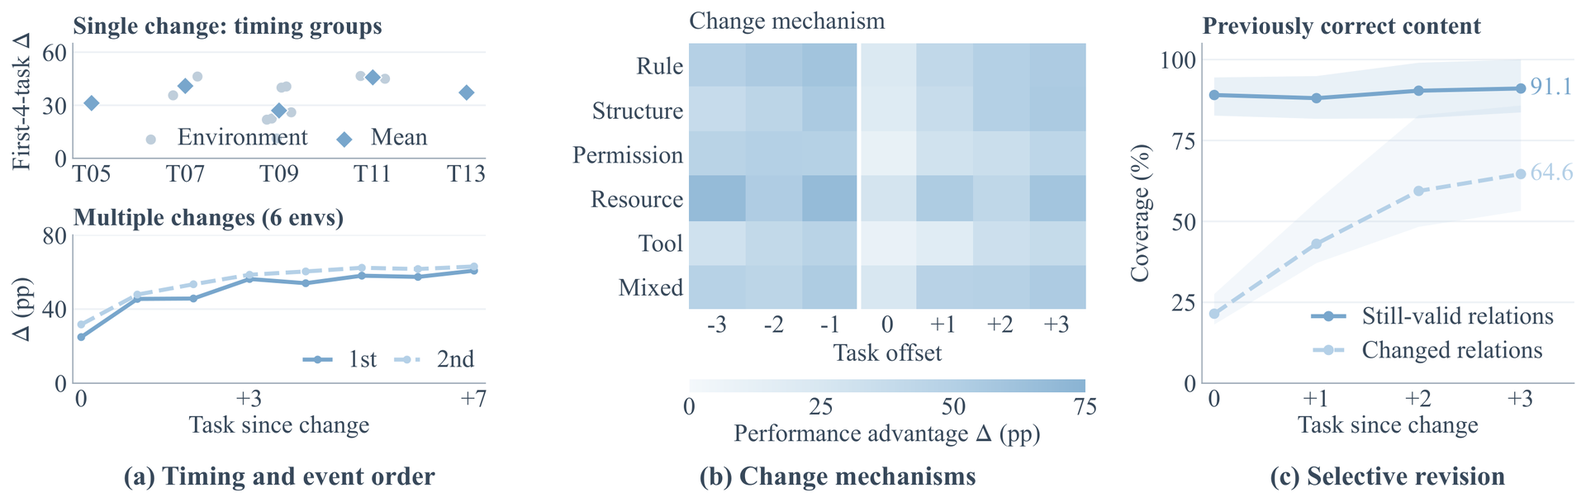
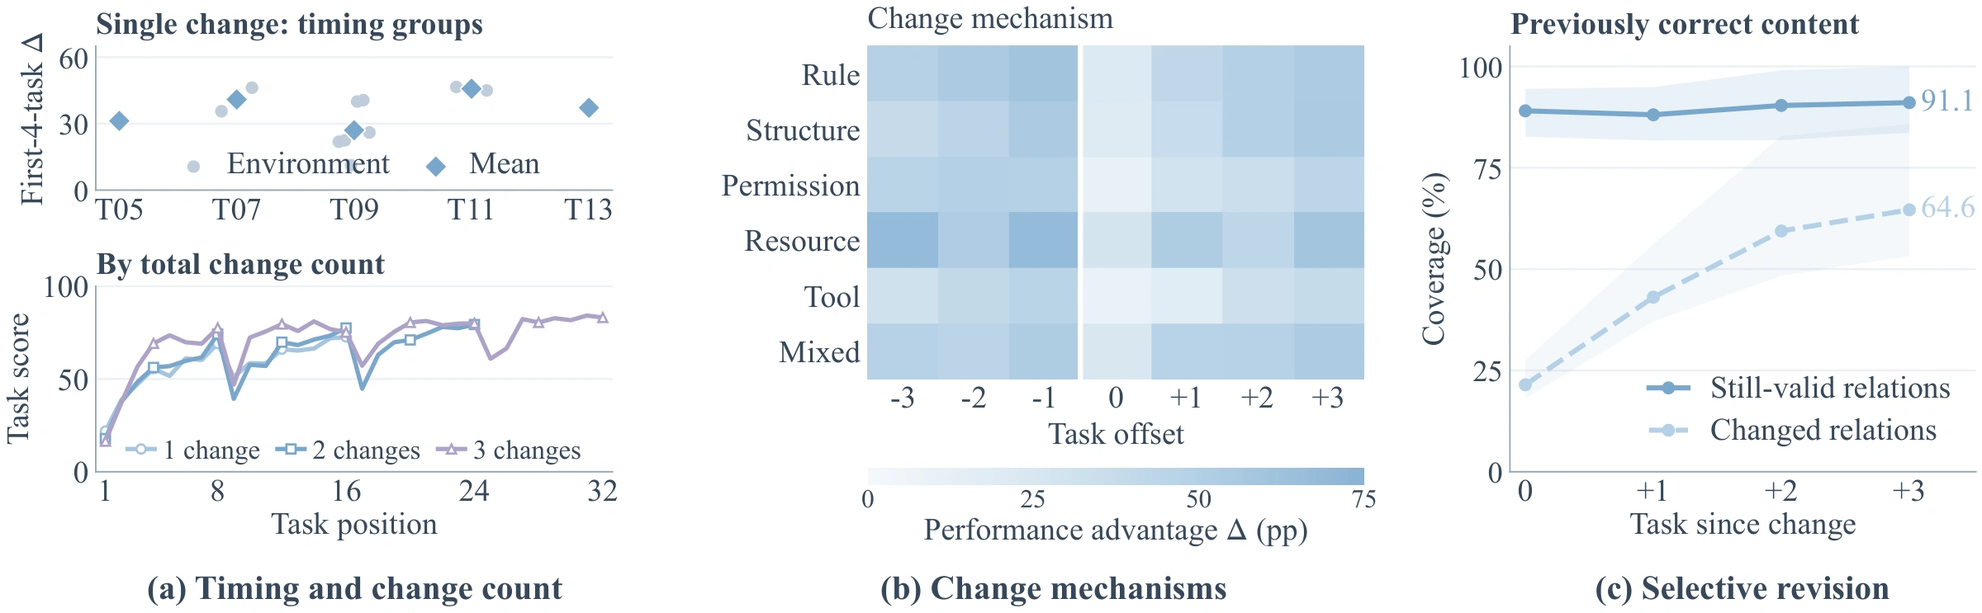
Refresh experiment analyses and display findings sequentially

diff --git a/index.html b/index.html
@@ -16,7 +16,7 @@
 <h1 id="project-name">ReScope<span>Bench</span></h1>
 <p class="paper-title">Towards Robust Long-Lived Agents: Benchmarking Experience Lifecycles in Evolving Environments</p>
 <p class="standfirst">When an environment changes without warning, which parts of their experience do agents keep, and which do they revise?</p>
-<div class="buttons"><span class="release"><svg viewBox="0 0 24 24" aria-hidden="true"><path d="M6 3h8l4 4v14H6zM14 3v5h4M9 12h6M9 15h6"/></svg>Paper · Coming soon</span><a class="btn" href="#citation"><span aria-hidden="true">❝</span> BibTeX</a><a class="btn primary" href="https://github.com/JoeYing1019/ReScopeBench"><svg viewBox="0 0 24 24" aria-hidden="true"><path d="m8 7-5 5 5 5m8-10 5 5-5 5m-3-14-3 18"/></svg>GitHub</a></div></div>
+<div class="buttons"><span class="release"><svg viewBox="0 0 24 24" aria-hidden="true"><path d="M6 3h8l4 4v14H6zM14 3v5h4M9 12h6M9 15h6"/></svg>Paper · Coming soon</span><a class="btn" href="#citation"><span aria-hidden="true">❝</span> BibTeX</a><a class="btn primary" href="https://github.com/JoeYing1019/ReScopeBench"><svg viewBox="0 0 24 24" aria-hidden="true"><path d="m8 7-5 5 5 5m8-10 5 5-5 5m-3-14-3 18"/></svg>GitHub</a><a class="btn" href="https://huggingface.co/datasets/JoeYing/ReScopeBench"><svg viewBox="0 0 24 24" aria-hidden="true"><ellipse cx="12" cy="5" rx="8" ry="3"/><path d="M4 5v14c0 4 16 4 16 0V5M4 12c0 4 16 4 16 0"/></svg>Dataset</a></div></div>
 <figure class="hero-art"><img src="assets/lifecycle.svg" alt="Three layered maps show an agent acquiring resource connections, reusing them and revising a local path after a change." fetchpriority="high"><figcaption><span>Fig. 00</span> The experience lifecycle <span class="art-rule"></span> Schematic</figcaption></figure></div>
 <div class="credits"><p class="authors">Shijue Huang<sup>1*</sup><wbr> Hangyu Guo<sup>1*</sup><wbr> Hengheng Zhang<sup>3</sup><wbr> Guo An<sup>3</sup><wbr> Zhitao He<sup>1</sup><wbr> Qi Tian<sup>2,3†</sup><wbr> Yiren Feng<sup>1†</sup></p>
 <p class="affiliations"><span><sup>1</sup>The Hong Kong University of Science and Technology</span><span><sup>2</sup>Guangdong Laboratory of Artificial Intelligence and Digital Economy (SZ)</span><span><sup>3</sup>Huawei Inc.</span></p>
@@ -27,7 +27,7 @@
 <p class="lead">An agent can find a file after it moves and finish the task while its notes still point to the old location. ReScopeBench tracks both what agents deliver and what they save for the next task.</p>
 <div class="overview-body"><a class="paper-figure zoom" href="assets/overview.webp" data-zoom><img src="assets/overview.webp" width="2160" height="1341" loading="lazy" alt="Benchmark overview. Interactive environments are built around discoverable experience. Tasks share dependencies, and local changes invalidate selected parts of that experience."><span class="enlarge">↗ Enlarge</span></a>
 <div class="overview-steps"><article><span>01.1</span><h3>Discover</h3><p>Agents explore an unfamiliar environment. Structural experience records how resources connect. Rule experience captures principles and constraints that guide actions.</p></article><article><span>01.2</span><h3>Reuse</h3><p>Later tasks draw on the same knowledge. Paired runs begin from the same state. One retains memory, skills, and retrievable history between tasks. The other clears them.</p></article><article><span>01.3</span><h3>Revise</h3><p>Local changes invalidate selected facts while others remain true. With a limited exploration budget, the agent must decide what to recheck.</p></article></div></div>
-<details class="disclosure"><summary>Read the paper abstract</summary><p>As agents become more capable, they are moving beyond one-off tasks toward sustained assistance across successive user goals. Such assistance requires agents to discover how unfamiliar environments work, reuse what they learn across tasks, and keep that experience current as environments evolve. Existing benchmarks increasingly study experience reuse and adaptation, but provide limited insight into which parts of accumulated experience agents revise, retain, or lose. To address this gap, we introduce ReScopeBench, a benchmark for the experience lifecycle across 18 interactive environments. It distinguishes structural experience about how an environment is organized and accessed from rule experience about reusable principles and constraints that guide decisions across tasks. To study how experience is acquired, reused, and revised, we propose an experience-first construction approach. It builds task streams around shared experience and introduces silent environmental changes. We evaluate task performance and track changes in saved experience throughout each stream. Across 20 models, we find that retained experience improves task performance, but agents struggle to keep it current as environments change. Even when the required experience is correctly recorded, agents do not always complete tasks successfully. These findings identify selective maintenance and effective use as complementary challenges for long-lived agents.</p></details>
+<details class="disclosure"><summary>Read the paper abstract</summary><p>As agents become more capable, they are moving beyond one-off tasks toward sustained assistance across successive user goals. Such assistance requires agents to discover how unfamiliar environments work, reuse what they learn across tasks, and keep that experience current as environments evolve. Existing benchmarks increasingly study experience reuse and adaptation, but provide limited insight into which parts of accumulated experience agents revise, retain, or lose. To address this gap, we introduce ReScopeBench, a benchmark for the experience lifecycle across 18 interactive environments. It distinguishes structural experience about how an environment is organized and accessed from rule experience about reusable principles and constraints that guide decisions across tasks. To study how experience is acquired, reused, and revised, we propose an experience-first construction approach. It builds task streams around shared experience and introduces silent environmental changes. We evaluate task performance and track changes in saved experience throughout each stream. Across 20 models, we find that retained experience improves task performance, but agents struggle to keep it current as environments change. Even when the required experience is correctly recorded, agents do not always fulfill requests successfully. These findings identify selective maintenance and effective use as complementary challenges for long-lived agents.</p></details>
 </section>
 <section class="tinted" id="results"><div class="chapter wrap"><div class="section-title"><span class="index">02 / Evaluation</span><h2>Main results</h2></div><p class="lead">All 20 models score higher on average when they retain experience. Yet even the best model records only 37.63% of update targets after the first task affected by a change.</p>
 <div class="table-head"><span class="overline">Table 2 <b>/</b> Model comparison</span><div class="segments" role="group" aria-label="Filter result rows"><button type="button" aria-pressed="true" data-filter="all">All models</button><button type="button" aria-pressed="false" data-filter="compact">Compact open-weight</button><button type="button" aria-pressed="false" data-filter="commercial">Commercial</button></div></div>
@@ -69,17 +69,44 @@
   </tbody>
 </table></div>
 <p class="footnote">Scores range from 0 to 100. Each environment has equal weight. Bold marks the best score in each column across all 20 models.</p>
-<details class="disclosure metrics"><summary>How to read the seven metrics</summary><div><section><h3>Task performance</h3><p><b>BP</b> and <b>EP</b> measure mean task scores without and with retained experience. <b>DP</b> measures the score with experience on the first task affected by each change.</p></section><section><h3>Saved experience</h3><p><b>SC</b> and <b>RC</b> measure coverage of current structural and rule knowledge. <b>UC</b> measures how much changed or new information is recorded after the first affected task. <b>RT</b> rewards earlier recovery of all update targets together with previously correct information that still applies.</p></section></div></details></div></section>
+<details class="disclosure metrics"><summary>How to read the seven metrics</summary><div><section><h3>Task performance</h3><p><b>BP</b> and <b>EP</b> measure mean task scores without and with retained experience. <b>DP</b> measures the score with experience on the first task affected by each change.</p></section><section><h3>Saved experience</h3><p><b>SC</b> and <b>RC</b> measure correct coverage of the current structural and rule reference inventories. <b>UC</b> measures how much changed or new information is recorded after the first affected task. <b>RT</b> rewards earlier joint completion of all update targets and previously correct, still-valid information within each affected experience unit.</p></section></div></details></div></section>
 <section class="chapter wrap" id="analysis"><div class="section-title"><span class="index">03 / Findings</span><h2>Inside the task streams</h2></div>
-<div class="analysis-tabs" role="group" aria-label="Choose an analysis"><button type="button" data-panel="formation" aria-pressed="true"><span>A</span> Experience growth</button><button type="button" data-panel="adaptation" aria-pressed="false"><span>B</span> Adaptation to change</button><button type="button" data-panel="behavior" aria-pressed="false"><span>C</span> Experience in action</button></div>
-<article class="analysis-panel" id="formation"><div class="finding-heading"><span class="overline">Figure 3</span><h3>Similar drops in performance can hide different gaps in experience.</h3></div><p>In the 24-task streams, performance drops at both changes. At task 9, structural coverage falls while rule coverage stays comparatively stable. At task 17, the pattern reverses. The dark curves average all 20 models.</p><a class="paper-figure zoom" href="assets/formation.webp" data-zoom><img loading="lazy" src="assets/formation.webp" width="1920" height="1137" alt="Task scores and coverage of structural and rule experience by position in 16-, 24-, and 32-task streams."><span class="enlarge">↗ Enlarge</span></a></article>
-<article class="analysis-panel" id="adaptation"><div class="finding-heading"><span class="overline">Figure 4</span><h3>Agents retain valid relations more readily than they revise outdated ones.</h3></div><p>We follow 487 cases in eight environments where agents had recorded the relations that later changed. Across the first four affected tasks, coverage of the replacements rose from 21.47% to 64.63%. Coverage of previously correct relations that remained valid stayed between 88.07% and 91.07%.</p><a class="paper-figure zoom" href="assets/adaptation.webp" data-zoom><img loading="lazy" src="assets/adaptation.webp" width="1920" height="608" alt="Performance advantage by change timing and mechanism, followed by separate coverage curves for still-valid and changed relations."><span class="enlarge">↗ Enlarge</span></a></article>
-<article class="analysis-panel" id="behavior"><div class="finding-heading"><span class="overline">Figure 5</span><h3>Much of the delivery gap appears before a request is submitted.</h3></div><p>Among 1,304 matched requests in Filesystem and Oracle, delivery was 95.31% with complete prior experience and 71.28% with incomplete prior experience. Missing submissions accounted for 19.42 points of that 24.03-point gap.</p><a class="paper-figure zoom" href="assets/behavior.webp" data-zoom><img loading="lazy" src="assets/behavior.webp" width="1920" height="734" alt="First-submission outcomes and public information reads as experience is formed and revised in two environments."><span class="enlarge">↗ Enlarge</span></a></article>
+<p class="lead">We examine how experience relates to task performance, how agents adapt to environmental change, and how they allocate tool use.</p>
+<article class="analysis-panel" id="formation" aria-labelledby="formation-title">
+<div class="finding-heading"><span class="overline">Analysis 01 · Figure 3</span><h3 id="formation-title">How do experience and task performance evolve?</h3></div>
+<p>We track task scores and saved structural and rule experience across all 20 models and 18 environments. Streams are grouped by length, with the same environments equally weighted at every position.</p>
+<a class="paper-figure zoom" href="assets/formation.webp" data-zoom><img loading="lazy" src="assets/formation.webp" width="2400" height="1397" alt="Task performance above and structural and rule experience coverage below, for 16-, 24-, and 32-task streams. Dark-gray curves show the mean of all 20 models, alongside four representative models."><span class="enlarge">↗ Enlarge</span></a>
+<p class="figure-note">Dark-gray curves average all 20 models. Markers distinguish GPT-5.4, GPT-5.5, GPT-6.1 Sol, and GPT-6 Astra. Bottom ticks show change positions; vertical lines mark changes shared by every environment in a group.</p>
+<div class="finding-grid">
+<div><h4>Gains accumulate across tasks</h4><p>Performance with experience rises across all three groups, while performance without experience remains low. Shared change onsets interrupt these gains before recovery.</p></div>
+<div><h4>Different experience becomes outdated</h4><p>In 24-task streams, structural coverage falls by 18.92 points at T09, while rule coverage stays comparatively stable. At T17, rule coverage falls by 15.97 points while structural coverage changes little.</p></div>
+<div><h4>Coverage is not task success</h4><p>GPT-5.4 gains structural coverage across all groups but remains far below the other displayed models in task performance. Recording reference knowledge does not ensure its effective use for a specific request.</p></div>
+</div></article>
+<article class="analysis-panel" id="adaptation" aria-labelledby="adaptation-title">
+<div class="finding-heading"><span class="overline">Analysis 02 · Figure 4</span><h3 id="adaptation-title">How do agents adapt to different changes?</h3></div>
+<p>We compare change timing, count, and mechanism across 26 events, 18 environments, and all 20 models. A separate content analysis follows previously learned relations to distinguish revision from first acquisition.</p>
+<a class="paper-figure zoom" href="assets/adaptation.webp" data-zoom><img loading="lazy" src="assets/adaptation.webp" width="2400" height="743" alt="Adaptation by change timing and total change count, performance advantage by six change mechanisms, and separate revision and retention curves for previously correct experience."><span class="enlarge">↗ Enlarge</span></a>
+<p class="figure-note">Performance advantage is the score with experience minus the score without experience. Offset 0 is the first affected task. The content analysis covers 487 eligible cases in eight environments; bands show the interquartile range of model means.</p>
+<div class="finding-grid">
+<div><h4>Later events have higher scores</h4><p>In two-change streams, the first-four-task mean rises from 55.94 after the first event to 62.15 after the second. Three-change streams score 68.62, 70.50, and 72.53. Different tasks and change targets prevent interpreting this as faster recovery.</p></div>
+<div><h4>Similar drops, different recovery</h4><p>Structure and tool changes initially reduce the performance advantage by 35.98 and 36.63 points. By the fourth affected task, the gaps from their pre-change levels are 0.16 and 8.69 points. These compare different environment groups.</p></div>
+<div><h4>Revision lags retention</h4><p>Across the first four affected tasks, replacement coverage rises from 21.47% to 64.63%. Coverage of previously correct relations that remain valid stays between 88.07% and 91.07%.</p></div>
+</div></article>
+<article class="analysis-panel" id="behavior" aria-labelledby="behavior-title">
+<div class="finding-heading"><span class="overline">Analysis 03 · Figure 5</span><h3 id="behavior-title">How do agents allocate tool use?</h3></div>
+<p>We analyze 151,569 foreground tool calls from 7,040 tasks with retained experience, covering all 20 models and 18 environments. Environment tools query or act on current state, history tools retrieve prior records, and experience tools read or modify memory and skills.</p>
+<a class="paper-figure zoom" href="assets/behavior.webp" data-zoom><img loading="lazy" src="assets/behavior.webp" width="2400" height="850" alt="Tool-call allocation, interaction rounds, and experience write attempts around environmental changes. Four representative models are shown with the mean of all 20 models."><span class="enlarge">↗ Enlarge</span></a>
+<p class="figure-note">Counts include failed calls and exclude automatic memory loading and background review. A tool round is one assistant turn containing calls and their responses. Before averages the three preceding tasks; At change denotes the first affected task.</p>
+<div class="finding-grid">
+<div><h4>History use varies most</h4><p>The four representative models make 13.07–13.81 environment calls per task. History calls vary from 0.14 for GPT-5.4 to 6.41 for GPT-5.5, accounting for much of the difference in their total activity.</p></div>
+<div><h4>Interaction peaks near change</h4><p>The all-model mean rises from 10.72 rounds before change to 12.70 at onset, then falls to 11.21 by the fourth affected task. All displayed models except GPT-5.4 show a similar increase.</p></div>
+<div><h4>More interaction is not more writing</h4><p>GPT-5.5 uses more rounds at onset, yet its experience write attempts fall from 1.08 to 0.97 per task. GPT-6.1 Sol and GPT-6 Astra increase their writes. These counts measure activity, not correct revision.</p></div>
+</div></article>
 </section>
 <section class="caseband" id="case"><div class="chapter wrap"><div class="section-title"><span class="index">04 / A closer look</span><h2>One directory changed. Five fields still worked.</h2></div>
 <p class="lead">In the Filesystem environment, GPT-5.5 had learned where to deliver the Riverlight Ledger index. A silent change moved the destination directory for Grove’s amber lane.</p>
-<div class="timeline"><article><span class="stage">T04</span><h3>A working record</h3><p>The agent saved the manifest, destination, routing token, and overwrite policy. The amber lane pointed to the original directory.</p></article><article><span class="stage">T07</span><h3>The old route fails</h3><p>A delivery using the saved directory returned <code>DELIVERY_POLICY_MISMATCH</code>. The agent recorded a warning to recheck the lane.</p></article><article><span class="stage">T09</span><h3>A local repair</h3><p>Two tool reads revealed a new directory handle and an unchanged policy. The repaired record supported five later deliveries without another business read for the manifest.</p></article></div>
-<a class="text-link" href="assets/case.webp" data-zoom data-description="Figure 14. The Riverlight Ledger case, including tool evidence, memory snapshots, and the task grader.">Inspect the original case record <span>↗</span></a>
+<div class="timeline"><article><span class="stage">T04</span><h3>A working record</h3><p>The agent saved the manifest, destination, routing token, and overwrite policy. The amber lane pointed to the original directory.</p></article><article><span class="stage">T07</span><h3>The old route fails</h3><p>A delivery using the saved directory returned <code>DELIVERY_POLICY_MISMATCH</code>. The agent recorded a warning to recheck the lane.</p></article><article><span class="stage">T09</span><h3>A local repair</h3><p>Two tool reads revealed a new directory handle and an unchanged policy. The repaired record supported five later deliveries without another environment query for the manifest.</p></article></div>
+<a class="text-link" href="assets/case.webp" data-zoom data-description="The Riverlight Ledger case, including tool evidence, memory snapshots, and the task grader.">Inspect the original case record <span>↗</span></a>
 </div></section>
 <section class="chapter wrap citation" id="citation"><div class="section-title"><span class="index">05 / Reference</span><h2>Cite this work</h2></div><div class="cite-box"><div class="cite-bar"><span>BibTeX</span><button type="button" id="copy">Copy citation</button></div><pre id="bib">@misc{huang2026rescopebench,
   title  = {Towards Robust Long-Lived Agents: Benchmarking Experience Lifecycles in Evolving Environments},

diff --git a/style.css b/style.css
@@ -2,8 +2,8 @@
 *{box-sizing:border-box}html{scroll-behavior:smooth;scroll-padding-top:82px}body{margin:0;font:16px/1.55 var(--sans);color:var(--ink);background:var(--paper);-webkit-font-smoothing:antialiased}a{color:inherit}button{font:inherit;color:inherit;cursor:pointer}a,button,summary{-webkit-tap-highlight-color:transparent}a:focus-visible,button:focus-visible,summary:focus-visible,div[tabindex]:focus-visible{outline:3px solid #5c73be;outline-offset:3px}button:disabled{cursor:default}img{max-width:100%;display:block}.wrap{width:min(1152px,calc(100% - 96px));margin-inline:auto}.mast{position:sticky;top:0;z-index:5;border-bottom:1px solid #d7dce5;background:rgba(253,252,249,.95);backdrop-filter:blur(14px)}.nav,footer .wrap,.buttons,.brand,.navlinks{display:flex;align-items:center}.nav{height:59px;justify-content:space-between}.brand{text-decoration:none;gap:9px;font-size:17px;font-weight:700;letter-spacing:-.045em}.navlinks{gap:29px;font-size:13px;font-weight:550;color:#454e65}.navlinks a,footer a{text-decoration:none}.navlinks a:hover,footer a:hover,.text-link:hover{color:#5758a1}.skip,.sr{position:absolute;width:1px;height:1px;overflow:hidden;clip-path:inset(50%)}.skip:focus{z-index:20;padding:8px 16px;top:5px;left:5px;background:white;width:auto;height:auto;clip-path:none}
 .hero{background:radial-gradient(ellipse at 96% 30%,#edeafa 0,transparent 54%),linear-gradient(112deg,#f7f9fd,#f3f7fd 57%,#f3f2f8);border-bottom:1px solid var(--line)}.hero-grid{display:grid;grid-template-columns:1.24fr 1fr;gap:44px;align-items:center;padding:54px 0 30px}.kicker,.index,.overline,.stage,.hero-art figcaption,.notes,.cite-bar>span,.overview-steps article>span{font-family:var(--mono)}.kicker,.index,.overline,.hero-art figcaption{text-transform:uppercase;font-weight:600;letter-spacing:.11em;font-size:11px}.kicker{display:flex;align-items:center;gap:10px;color:#4b5d8c}.kicker i{height:7px;width:7px;border-radius:50%;background:#7890c3}.kicker span,.overline b{color:#99a3b7}.hero h1{font-size:clamp(54px,6.7vw,92px);font-weight:700;line-height:1.13;letter-spacing:-.078em;margin:13px 0 10px;color:#20263d}.hero h1 span{color:#5d68a1}.paper-title{font-family:var(--serif);font-size:clamp(21px,2vw,29px);color:#37425d;line-height:1.26;letter-spacing:-.025em;margin:0;max-width:670px;text-wrap:pretty}.standfirst{max-width:525px;color:var(--muted);font-size:16px;line-height:1.55;margin:19px 0 0}.buttons{gap:10px;flex-wrap:wrap;margin-top:24px}.btn,.release{display:inline-flex;gap:9px;align-items:center;text-decoration:none;line-height:1;font-size:13px;font-weight:600}.btn{border:1px solid #bfc7d8;background:#fcfdff;border-radius:7px;padding:12px 16px}.btn:hover{border-color:#6979aa}.btn.primary{background:#344970;color:white;border-color:#344970}.btn.primary:hover{background:#263a60}.btn small{font:10px var(--mono);opacity:.8}.btn svg,.release svg{width:16px;height:16px;fill:none;stroke:currentColor;stroke-width:1.6;stroke-linecap:round;stroke-linejoin:round}.btn span[aria-hidden]{font:20px/12px var(--serif)}.release{color:#606a82;font-weight:450;padding:5px}.hero-art{margin:0;min-width:0}.hero-art img{width:100%;height:auto;aspect-ratio:520/355;object-fit:contain}.hero-art figcaption{display:flex;align-items:center;gap:9px;font-size:9px;letter-spacing:.10em;color:#606c87}.hero-art figcaption span:first-child{color:#514f87}.art-rule{flex:1;border-top:1px solid #bfc8da}.credits{border-top:1px solid #cbd3e3;padding:18px 0 20px}.authors{margin:0;font-size:15px;font-weight:600;word-spacing:.07em}.authors sup{margin-right:10px;color:#5b6692;font:9px var(--mono);vertical-align:super;word-spacing:0}.affiliations{display:flex;gap:6px 18px;flex-wrap:wrap;font-size:11.5px;line-height:1.35;color:#556174;margin:7px 0 3px}.affiliations sup{margin-right:3px;font-size:9px}.notes{margin:4px 0 0;font-size:10px;color:#5c6778}.notes span{margin:0 4px}.scope{border-bottom:1px solid var(--line);background:#fafbfe}.stats{display:grid;grid-template-columns:repeat(4,1fr);padding:19px 0;margin-block:0}.stats>div{display:flex;align-items:center;padding:0 19px;gap:12px;border-right:1px solid var(--line)}.stats>div:first-child{padding-left:0}.stats>div:last-child{border:0}.stats dd{order:-1;font:normal clamp(27px,2.6vw,39px)/1 var(--serif);letter-spacing:-.055em;margin:0;color:#48588a}.stats dt{font-size:12px;line-height:1.3;color:var(--muted);max-width:95px}
 .chapter{padding-top:67px;padding-bottom:68px}.section-title{margin-bottom:12px}.index{color:#5b6590;font-size:11px}.section-title h2{font:normal clamp(31px,4vw,53px)/1.12 var(--serif);letter-spacing:-.055em;margin:8px 0 0;text-wrap:balance}.lead{max-width:830px;font-size:18px;line-height:1.55;margin:0 0 27px;color:#4b556b}.overview-body{display:grid;grid-template-columns:1.95fr 1fr;gap:34px;align-items:center}.paper-figure{position:relative;display:block;background:white;border:1px solid var(--line);border-radius:9px;padding:11px;cursor:zoom-in;text-decoration:none}.paper-figure img{width:100%;height:auto}.enlarge{position:absolute;bottom:8px;right:9px;border:1px solid #c9d0dd;background:white;border-radius:4px;font:10px/1 var(--mono);padding:6px;color:#414c6b;opacity:0}.paper-figure:hover .enlarge,.paper-figure:focus-visible .enlarge{opacity:1}.overview-steps article{border-top:1px solid var(--line);padding:11px 0 14px;position:relative}.overview-steps article>span{float:left;color:#687598;font-size:11px;margin:5px 15px 0 0}.overview-steps h3,.metrics h3,.timeline h3{font-size:17px;margin:0 0 4px;letter-spacing:-.025em}.overview-steps p{font-size:14px;line-height:1.55;margin:3px 0 0 40px;color:var(--muted)}.disclosure{margin-top:24px;border-block:1px solid var(--line)}summary{padding:13px 2px;font-size:14px;color:var(--blue);font-weight:600;cursor:pointer}summary::marker{font-size:10px}.disclosure>p{max-width:860px;color:var(--muted);margin:0 0 17px}.tinted{background:#f3f5fa;border-block:1px solid var(--line)}.table-head{display:flex;justify-content:space-between;align-items:center;gap:16px;margin:25px 0 12px}.overline{color:#546188;display:inline-block}.overline b{margin-inline:6px}.segments{display:flex;flex-wrap:wrap;gap:2px;background:#e7ebf4;border-radius:7px;padding:3px}.segments button{border:none;color:#49546b;background:transparent;border-radius:5px;font-size:12px;padding:5px 11px}.segments button[aria-pressed=true]{background:white;color:#303d62;box-shadow:0 1px 3px #25334a24}.table-scroll{width:100%;overflow-x:auto;border:1px solid #d3dae8;background:#fff;border-radius:8px}.results-table{width:100%;border-collapse:collapse;font-size:14px;font-variant-numeric:tabular-nums;white-space:nowrap}.results-table caption{position:absolute;clip-path:inset(50%);width:1px;height:1px;overflow:hidden}.results-table th,.results-table td{padding:7px 10px;text-align:right}.results-table thead th{background:#e8edf6;color:#394868;font-size:12px;font-weight:650}.results-table thead tr:first-child th[colspan]{text-align:center;border-bottom:1px solid #cbd3e3}.results-table th:first-child{text-align:left}.results-table tr:first-child th:first-child,.results-table th[scope=row],.results-table .group-row th{padding-left:16px}.results-table tr td{border-top:1px solid #e9ecf1}.results-table tr th[scope=row]{border-top:1px solid #e9ecf1;font-weight:600}.results-table tbody tr:not(.group-row):hover{background:#f4f6fc}.results-table abbr{text-decoration:none}.group-row{background:#f1f3fa;color:#546184;font-size:12px}.group-row th{font-weight:600}.provider{font-size:11px;font-weight:400;color:#666f81;padding-left:7px}.results-table strong,.results-table b{color:#484689;font-weight:800}.footnote{font-size:12px;margin:9px 0;color:#59647b}.metrics>div{display:grid;grid-template-columns:1fr 1.5fr;gap:30px;padding-bottom:13px}.metrics p{font-size:14px;color:var(--muted);margin:0}
-.analysis-tabs{display:flex;gap:0;border-bottom:1px solid var(--line);margin:24px 0}.analysis-tabs button{border:0;border-bottom:2px solid transparent;background:transparent;color:#626b7d;padding:10px 15px;font-size:14px;line-height:1.3}.analysis-tabs button:first-child{padding-left:0}.analysis-tabs button[aria-pressed=true]{border-bottom-color:#59649a;color:#333e65;font-weight:650}.analysis-tabs button span{font:11px var(--mono);margin-right:5px;color:#7580a9}.analysis-panel{margin-block:18px 0}.analysis-panel h3{font:normal clamp(22px,2.8vw,31px)/1.2 var(--serif);letter-spacing:-.028em;margin:5px 0 8px}.analysis-panel p{font-size:15px;color:var(--muted);max-width:875px;margin:0 0 17px}.analysis-panel .paper-figure{max-width:1050px;margin:auto;padding:14px}.analysis-panel#formation .paper-figure{max-width:900px}.caseband{background:#edf0f8;border-block:1px solid var(--line)}.timeline{display:grid;grid-template-columns:repeat(3,1fr);margin:30px 0 20px;gap:25px}.timeline article{border-top:2px solid #9daecc;padding-top:13px}.timeline article:nth-child(2){border-color:#a9a2be}.timeline article:nth-child(3){border-color:#767ba7}.stage{color:#525d86;font-size:12px;font-weight:600;letter-spacing:.04em}.timeline h3{margin:7px 0}.timeline p{font-size:14px;color:var(--muted);margin:0}.timeline code{font:11px var(--mono);color:#5b4e7c;overflow-wrap:anywhere}.text-link{font-weight:600;font-size:14px;text-underline-offset:4px;color:#445788}.text-link span{margin-left:5px}.cite-box{border:1px solid var(--line);border-radius:7px;overflow:hidden;background:#f6f7fb}.cite-bar{display:flex;justify-content:space-between;align-items:center;padding:9px 15px;border-bottom:1px solid var(--line);background:#eef1f7;color:#51617b;font-size:12px}.cite-bar button,.viewer-bar button{border:1px solid #c6cedd;border-radius:4px;background:#fff;padding:4px 10px;font-size:12px}.cite-box pre{font:13px/1.55 var(--mono);margin:0;padding:16px;white-space:pre-wrap;overflow-wrap:anywhere;color:#394463}footer{border-top:1px solid var(--line);background:#f7f8fb}footer .wrap{justify-content:space-between;padding-block:18px;font-size:12px;color:#596477}.viewer-bar{position:sticky;top:0;display:flex;align-items:center;justify-content:space-between;gap:1rem;background:#f5f6fa;padding:11px 16px;border-bottom:1px solid var(--line);font-size:13px;z-index:1}.viewer-bar span{overflow:hidden;white-space:nowrap;text-overflow:ellipsis}.viewer-content{overflow:auto;max-height:calc(91vh - 51px);background:white;padding:12px}.viewer-content img{width:auto;max-width:100%;margin:auto}dialog{padding:0;width:min(1500px,95vw);max-width:95vw;border:1px solid #c0c8da;border-radius:8px;max-height:94vh}dialog::backdrop{background:#11182bb8}body:has(dialog[open]){overflow:hidden}[hidden]{display:none!important}
+.analysis-panel{margin-top:34px}.analysis-panel+.analysis-panel{border-top:1px solid var(--line);padding-top:42px;margin-top:42px}.analysis-panel h3{font:normal clamp(22px,2.8vw,31px)/1.2 var(--serif);letter-spacing:-.028em;margin:5px 0 8px}.analysis-panel p{font-size:15px;color:var(--muted);max-width:875px;margin:0 0 17px}.analysis-panel .paper-figure{max-width:1050px;margin:auto;padding:14px}.analysis-panel .figure-note{max-width:1050px;margin:10px auto 22px;font-size:12px;line-height:1.5;color:#626c80}.finding-grid{display:grid;grid-template-columns:repeat(3,minmax(0,1fr));gap:25px;margin-top:22px}.finding-grid h4{font-size:15px;line-height:1.35;margin:0 0 7px;letter-spacing:-.015em}.finding-grid p{font-size:14px;line-height:1.6;margin:0}.caseband{background:#edf0f8;border-block:1px solid var(--line)}.timeline{display:grid;grid-template-columns:repeat(3,1fr);margin:30px 0 20px;gap:25px}.timeline article{border-top:2px solid #9daecc;padding-top:13px}.timeline article:nth-child(2){border-color:#a9a2be}.timeline article:nth-child(3){border-color:#767ba7}.stage{color:#525d86;font-size:12px;font-weight:600;letter-spacing:.04em}.timeline h3{margin:7px 0}.timeline p{font-size:14px;color:var(--muted);margin:0}.timeline code{font:11px var(--mono);color:#5b4e7c;overflow-wrap:anywhere}.text-link{font-weight:600;font-size:14px;text-underline-offset:4px;color:#445788}.text-link span{margin-left:5px}.cite-box{border:1px solid var(--line);border-radius:7px;overflow:hidden;background:#f6f7fb}.cite-bar{display:flex;justify-content:space-between;align-items:center;padding:9px 15px;border-bottom:1px solid var(--line);background:#eef1f7;color:#51617b;font-size:12px}.cite-bar button,.viewer-bar button{border:1px solid #c6cedd;border-radius:4px;background:#fff;padding:4px 10px;font-size:12px}.cite-box pre{font:13px/1.55 var(--mono);margin:0;padding:16px;white-space:pre-wrap;overflow-wrap:anywhere;color:#394463}footer{border-top:1px solid var(--line);background:#f7f8fb}footer .wrap{justify-content:space-between;padding-block:18px;font-size:12px;color:#596477}.viewer-bar{position:sticky;top:0;display:flex;align-items:center;justify-content:space-between;gap:1rem;background:#f5f6fa;padding:11px 16px;border-bottom:1px solid var(--line);font-size:13px;z-index:1}.viewer-bar span{overflow:hidden;white-space:nowrap;text-overflow:ellipsis}.viewer-content{overflow:auto;max-height:calc(91vh - 51px);background:white;padding:12px}.viewer-content img{width:auto;max-width:100%;margin:auto}dialog{padding:0;width:min(1500px,95vw);max-width:95vw;border:1px solid #c0c8da;border-radius:8px;max-height:94vh}dialog::backdrop{background:#11182bb8}body:has(dialog[open]){overflow:hidden}[hidden]{display:none!important}
 @media(max-width:900px){.wrap{width:calc(100% - 58px)}.hero-grid{gap:16px;grid-template-columns:1.23fr 1fr;padding-top:34px}.hero h1{font-size:clamp(54px,7.6vw,72px)}.overview-body{grid-template-columns:1.45fr 1fr;gap:20px}.overview-steps p{margin-left:0}.stats>div{gap:9px;padding-inline:13px}.provider{display:none}}
-@media(max-width:690px){html{scroll-padding-top:56px}.wrap{width:calc(100% - 34px)}.nav{height:50px}.brand{font-size:15px;gap:5px}.brand img{width:24px;height:24px}.navlinks{gap:12px;font-size:11px}.hero-grid{grid-template-columns:1fr;gap:15px;padding:29px 0 14px}.hero-art{width:min(380px,90%);margin:auto}.hero-art img{max-height:185px}.hero-art figcaption{font-size:8px}.hero h1{font-size:clamp(48px,12.6vw,76px)}.paper-title{font-size:22px;max-width:540px}.standfirst{font-size:15px;margin-top:12px}.buttons{margin-top:16px}.btn{padding:10px 12px}.release{font-size:12px}.credits{padding:13px 0}.authors{font-size:13px;line-height:1.8}.affiliations{display:block;font-size:10.5px}.affiliations span{display:block}.stats{grid-template-columns:repeat(2,1fr);gap:14px 0;padding-block:15px}.stats>div,.stats>div:first-child{padding:0 8px}.stats>div:nth-child(2){border:0}.stats dt{max-width:none;font-size:11px}.stats dd{font-size:27px;min-width:42px}.chapter{padding-block:39px}.lead{font-size:16px}.overview-body{grid-template-columns:1fr}.overview-steps p{margin-left:40px}.table-head{display:block}.segments{margin-top:8px;width:fit-content}.segments button{font-size:11px;padding:5px 8px}.results-table{font-size:12px}.results-table td,.results-table th{padding:8px}.analysis-tabs button{font-size:12px;flex:1;padding:8px 4px}.analysis-tabs button:first-child{padding-left:4px}.analysis-tabs button span{display:block;margin:0 0 1px}.timeline,.metrics>div{grid-template-columns:1fr;gap:17px}.timeline{margin-top:18px}.chapter .paper-figure{padding:5px}.enlarge{display:none}.viewer-content{padding:3px}.viewer-content img{max-width:none;width:max(100%,800px)}}
+@media(max-width:690px){html{scroll-padding-top:56px}.wrap{width:calc(100% - 34px)}.nav{height:50px}.brand{font-size:15px;gap:5px}.brand img{width:24px;height:24px}.navlinks{gap:12px;font-size:11px}.hero-grid{grid-template-columns:1fr;gap:15px;padding:29px 0 14px}.hero-art{width:min(380px,90%);margin:auto}.hero-art img{max-height:185px}.hero-art figcaption{font-size:8px}.hero h1{font-size:clamp(48px,12.6vw,76px)}.paper-title{font-size:22px;max-width:540px}.standfirst{font-size:15px;margin-top:12px}.buttons{margin-top:16px}.btn{padding:10px 12px}.release{font-size:12px}.credits{padding:13px 0}.authors{font-size:13px;line-height:1.8}.affiliations{display:block;font-size:10.5px}.affiliations span{display:block}.stats{grid-template-columns:repeat(2,1fr);gap:14px 0;padding-block:15px}.stats>div,.stats>div:first-child{padding:0 8px}.stats>div:nth-child(2){border:0}.stats dt{max-width:none;font-size:11px}.stats dd{font-size:27px;min-width:42px}.chapter{padding-block:39px}.lead{font-size:16px}.overview-body{grid-template-columns:1fr}.overview-steps p{margin-left:40px}.table-head{display:block}.segments{margin-top:8px;width:fit-content}.segments button{font-size:11px;padding:5px 8px}.results-table{font-size:12px}.results-table td,.results-table th{padding:8px}.timeline,.metrics>div,.finding-grid{grid-template-columns:1fr;gap:17px}.analysis-panel+.analysis-panel{padding-top:30px;margin-top:30px}.analysis-panel .figure-note{font-size:11px}.timeline{margin-top:18px}.chapter .paper-figure{padding:5px}.enlarge{display:none}.viewer-content{padding:3px}.viewer-content img{max-width:none;width:max(100%,800px)}}
 @media(max-width:360px){.navlinks{gap:8px}.navlinks a:first-child{display:none}}
 @media(prefers-reduced-motion:reduce){html{scroll-behavior:auto}}

diff --git a/app.js b/app.js
@@ -5,19 +5,6 @@
     filters.forEach(item => item.setAttribute('aria-pressed', String(item === button)));
     groups.forEach(group => { group.hidden = button.dataset.filter !== 'all' && group.dataset.group !== button.dataset.filter; });
   }));
-  const tabs = [...document.querySelectorAll('[data-panel]')];
-  function selectAnalysis(button) {
-    tabs.forEach(item => {
-      const selected = item === button;
-      item.setAttribute('aria-pressed', String(selected));
-      document.getElementById(item.dataset.panel).hidden = !selected;
-    });
-  }
-  tabs.forEach(button => {
-    button.setAttribute('aria-controls', button.dataset.panel);
-    button.addEventListener('click', () => selectAnalysis(button));
-  });
-  selectAnalysis(tabs[0]);
   const viewer = document.getElementById('viewer');
   const enlarged = document.getElementById('view-img');
   document.querySelectorAll('[data-zoom]').forEach(link => link.addEventListener('click', event => {
